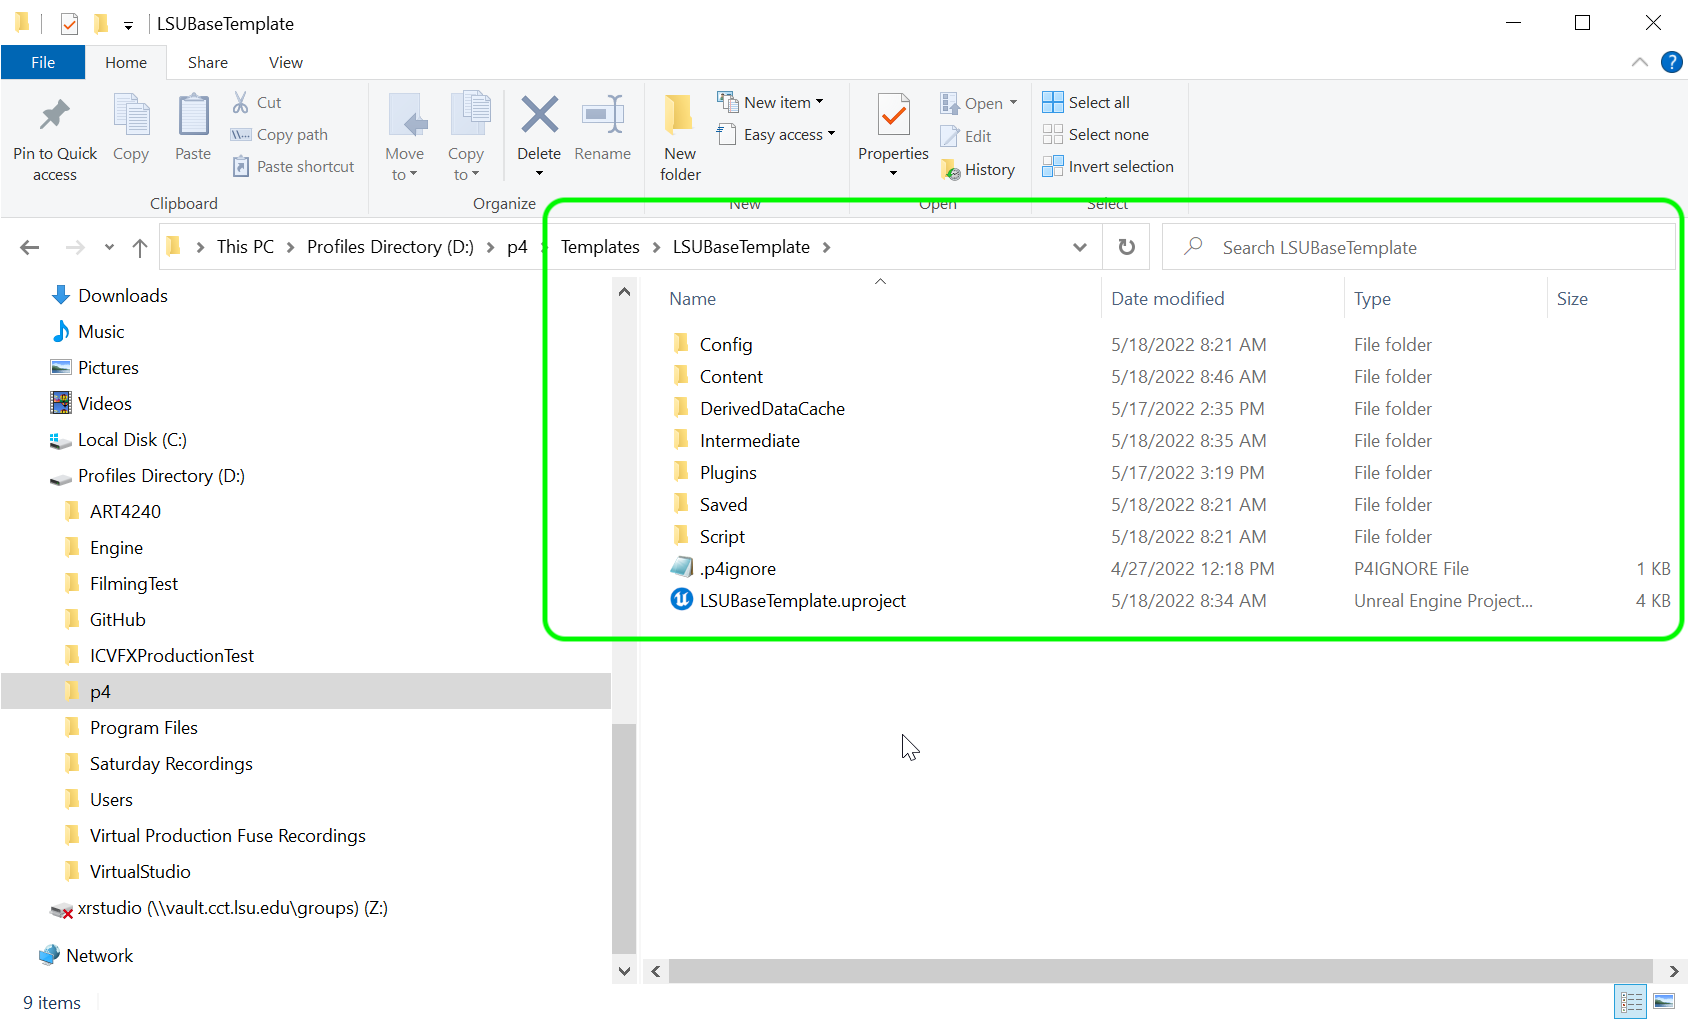
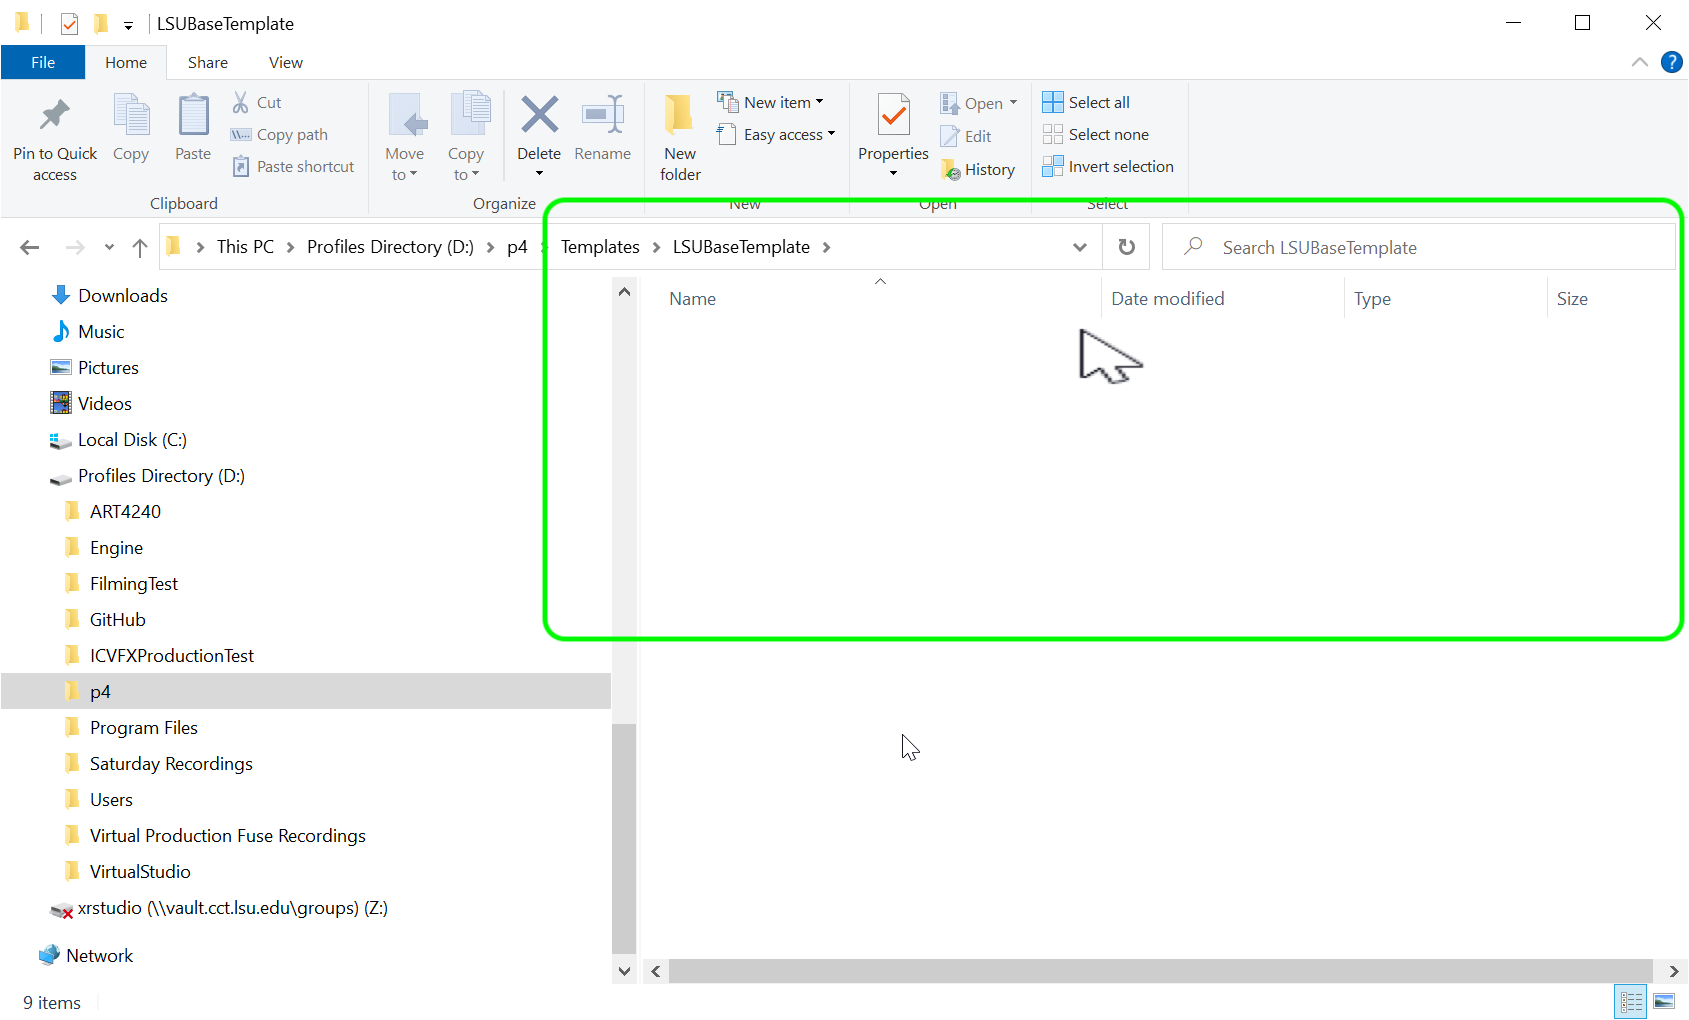
adding ue5 led wall walk through

Changed region(s): [[0.6157, 0.3343, 0.7697, 0.6078], [0.4002, 0.3343, 0.5234, 0.6078], [0.8005, 0.3343, 0.8928, 0.6078]]

diff --git a/unreal5-base-setup/README.md b/unreal5-base-setup/README.md
@@ -82,15 +82,13 @@ Now we need to add this new depot to the workspace (it does not know it is there
 
 ![add depot to workspace](images/SetDepotToWorkspace.png)
 
-Create a directory in your workspace drive (mine is D:\perforce) with the exact same name including caps as the depot.  So I have a new folder called `Templates`.  I added a `readme.txt` file with the name of the project in it. I then opened **P4V** and selected the **Pending** tab and right clicked and selected a **New Pending Changelist**.
-
-![create new changelist](images/newChangelist.png)
-
-
-
 <img src="https://via.placeholder.com/500x2/45D7CA/45D7CA" alt="drawing" height="2px" alt = ""/>
 
 ##### `Step 9.`\|`BTS`| :small_orange_diamond: :small_blue_diamond: :small_blue_diamond: :small_blue_diamond: :small_blue_diamond:
+
+Create a directory in your workspace drive (mine is D:\p4) with the exact same name including caps as the depot.  So I have a new folder called `Templates`.  I added a `.p4ignore` file with the name of the project in it. I then opened **P4V** and selected the **Pending** tab and right clicked and selected a **New Pending Changelist**.
+
+![create new changelist](images/newChangelist.png)
 
 Now drag **readme.txt** to the changelist and submit it to the server. 
 
